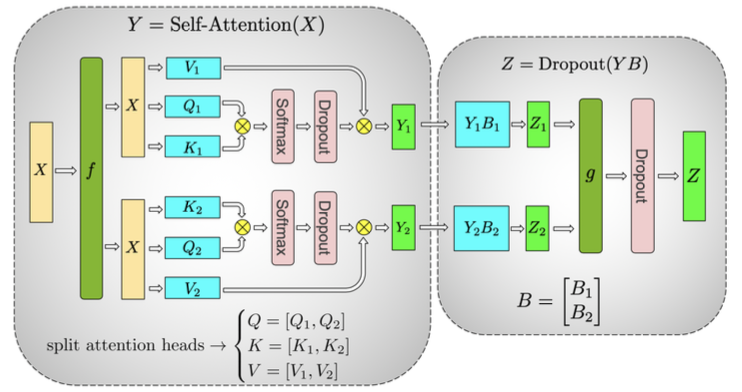
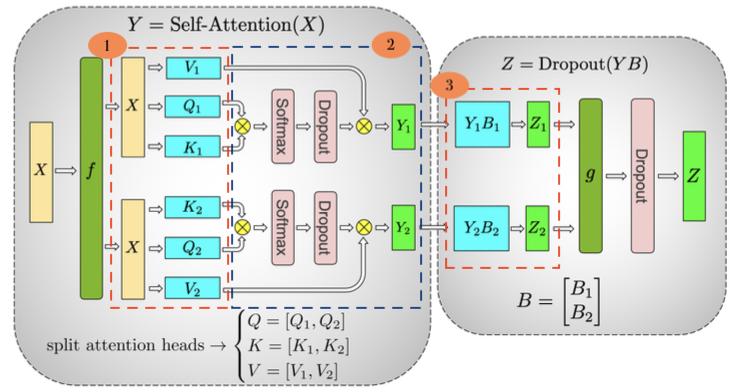
Updated self-attention explanation

diff --git a/README.md b/README.md
@@ -55,14 +55,14 @@ Transformer layers are stacked since their input and output dimensions are the s
 The Layer Norm layer is actually the [`FastLayerNormFN`](https://github.com/TJ-Solergibert/Megatron-debug/blob/22e0922af07bddcc2c0607be2be9e501816bafb6/megatron/model/fused_layer_norm.py#L86) from the Apex package. This operation is performed in parallel withing the tensor parallel group by splitting the tensors across the sequence dimension (_sequence parallelism_, check Section 4.2.2 of [[3]](https://arxiv.org/pdf/2205.05198)).
 
 #### Self Attention + Linear
-This phase is carried out by dividing matrix multiplications into columns and rows across the members of the tensor parallel groups (_tensor parallelism_, check Section 3 of [[1]](https://arxiv.org/pdf/1909.08053.pdf)). First, we calculate the hidden size per attention head and divide the total number of heads by the number of devices in the tensor parallel group.
+This phase is carried out by dividing matrix multiplications into columns and rows across the members of the tensor parallel groups (_tensor parallelism_, check Section 3 of [[1]](https://arxiv.org/pdf/1909.08053.pdf)). First, we calculate the hidden size per attention head. 
 
 <img src="./images/Self-Attention_Linear.png">
 
-After we will do the following:
-1. To compute the query, key, values each tensor parallel rank will have its own [`tensor_parallel.ColumnParallelLinear`](https://github.com/TJ-Solergibert/Megatron-debug/blob/92ad4c98b2634d674f64c12cbe45671768f2ccfd/megatron/core/tensor_parallel/layers.py#L534) layer. This layer will contain the split of columns from the Q, K, and V matrices relevant to each tensor parallel rank.
+After, we will do the following:
+1. To compute the query, key, values each tensor parallel rank will have its own [`tensor_parallel.ColumnParallelLinear`](https://github.com/TJ-Solergibert/Megatron-debug/blob/92ad4c98b2634d674f64c12cbe45671768f2ccfd/megatron/core/tensor_parallel/layers.py#L534) layer. This layer will contain the split of columns from the Q, K, and V matrices relevant to each tensor parallel rank. This is done by dividing the expected output size with the tensor parallel group world size.
 2. To perform the attention, we will use a `CoreAttention` module. This module contains optimized CUDA kernels to accelerate the scaling, mask and softmax operations. 
-3. To compute the the linear layer, we will split the operations between the tensor parallel ranks in rows with the [`tensor_parallel.RowParallelLinear`](https://github.com/TJ-Solergibert/Megatron-debug/blob/92ad4c98b2634d674f64c12cbe45671768f2ccfd/megatron/core/tensor_parallel/layers.py#L767) layer. 
+3. To compute the the linear layer, we will split the operations between the tensor parallel ranks in rows with the [`tensor_parallel.RowParallelLinear`](https://github.com/TJ-Solergibert/Megatron-debug/blob/92ad4c98b2634d674f64c12cbe45671768f2ccfd/megatron/core/tensor_parallel/layers.py#L767) layer. Unlike the `tensor_parallel.ColumnParallelLinear` layer, this time the output size will be the hidden size, but the input will be this same dimension divided by the tensor parallel group world size.
 
 #### Linear Layers
 <img src="./images/MLP.png">
@@ -72,7 +72,7 @@ This operation is also splitted among the tensor parallel group. We will use a `
 ## Training
 Once we have created all the communication groups, the model, optimizer, and datasets, we can finally begin the training of the model.
 
-Megatron distinguishes between 3 different configurations to carry out the forward and backward pass during training, depending on whether we have pipeline parallelism or not and if we run an interleaved 1F1B schedule or not (check Section 2.2 of [[2]](https://arxiv.org/pdf/2104.04473.pdf)). In this project, since we only have one GPU, we will analyze the simplest case without pipelining ([`forward_backward_no_pipelining`](https://github.com/TJ-Solergibert/Megatron-debug/blob/92ad4c98b2634d674f64c12cbe45671768f2ccfd/megatron/core/pipeline_parallel/schedules.py#L283)).
+Megatron distinguishes between 3 different configurations to carry out the forward and backward pass during training, depending on whether we have pipeline parallelism and if we run an interleaved 1F1B schedule or not (check Section 2.2 of [[2]](https://arxiv.org/pdf/2104.04473.pdf)). First, we will analyze the simplest case without pipelining ([`forward_backward_no_pipelining`](https://github.com/TJ-Solergibert/Megatron-debug/blob/92ad4c98b2634d674f64c12cbe45671768f2ccfd/megatron/core/pipeline_parallel/schedules.py#L283)).
 
 <!-- omit in toc -->
 Below is Megatron-LM's original README.
